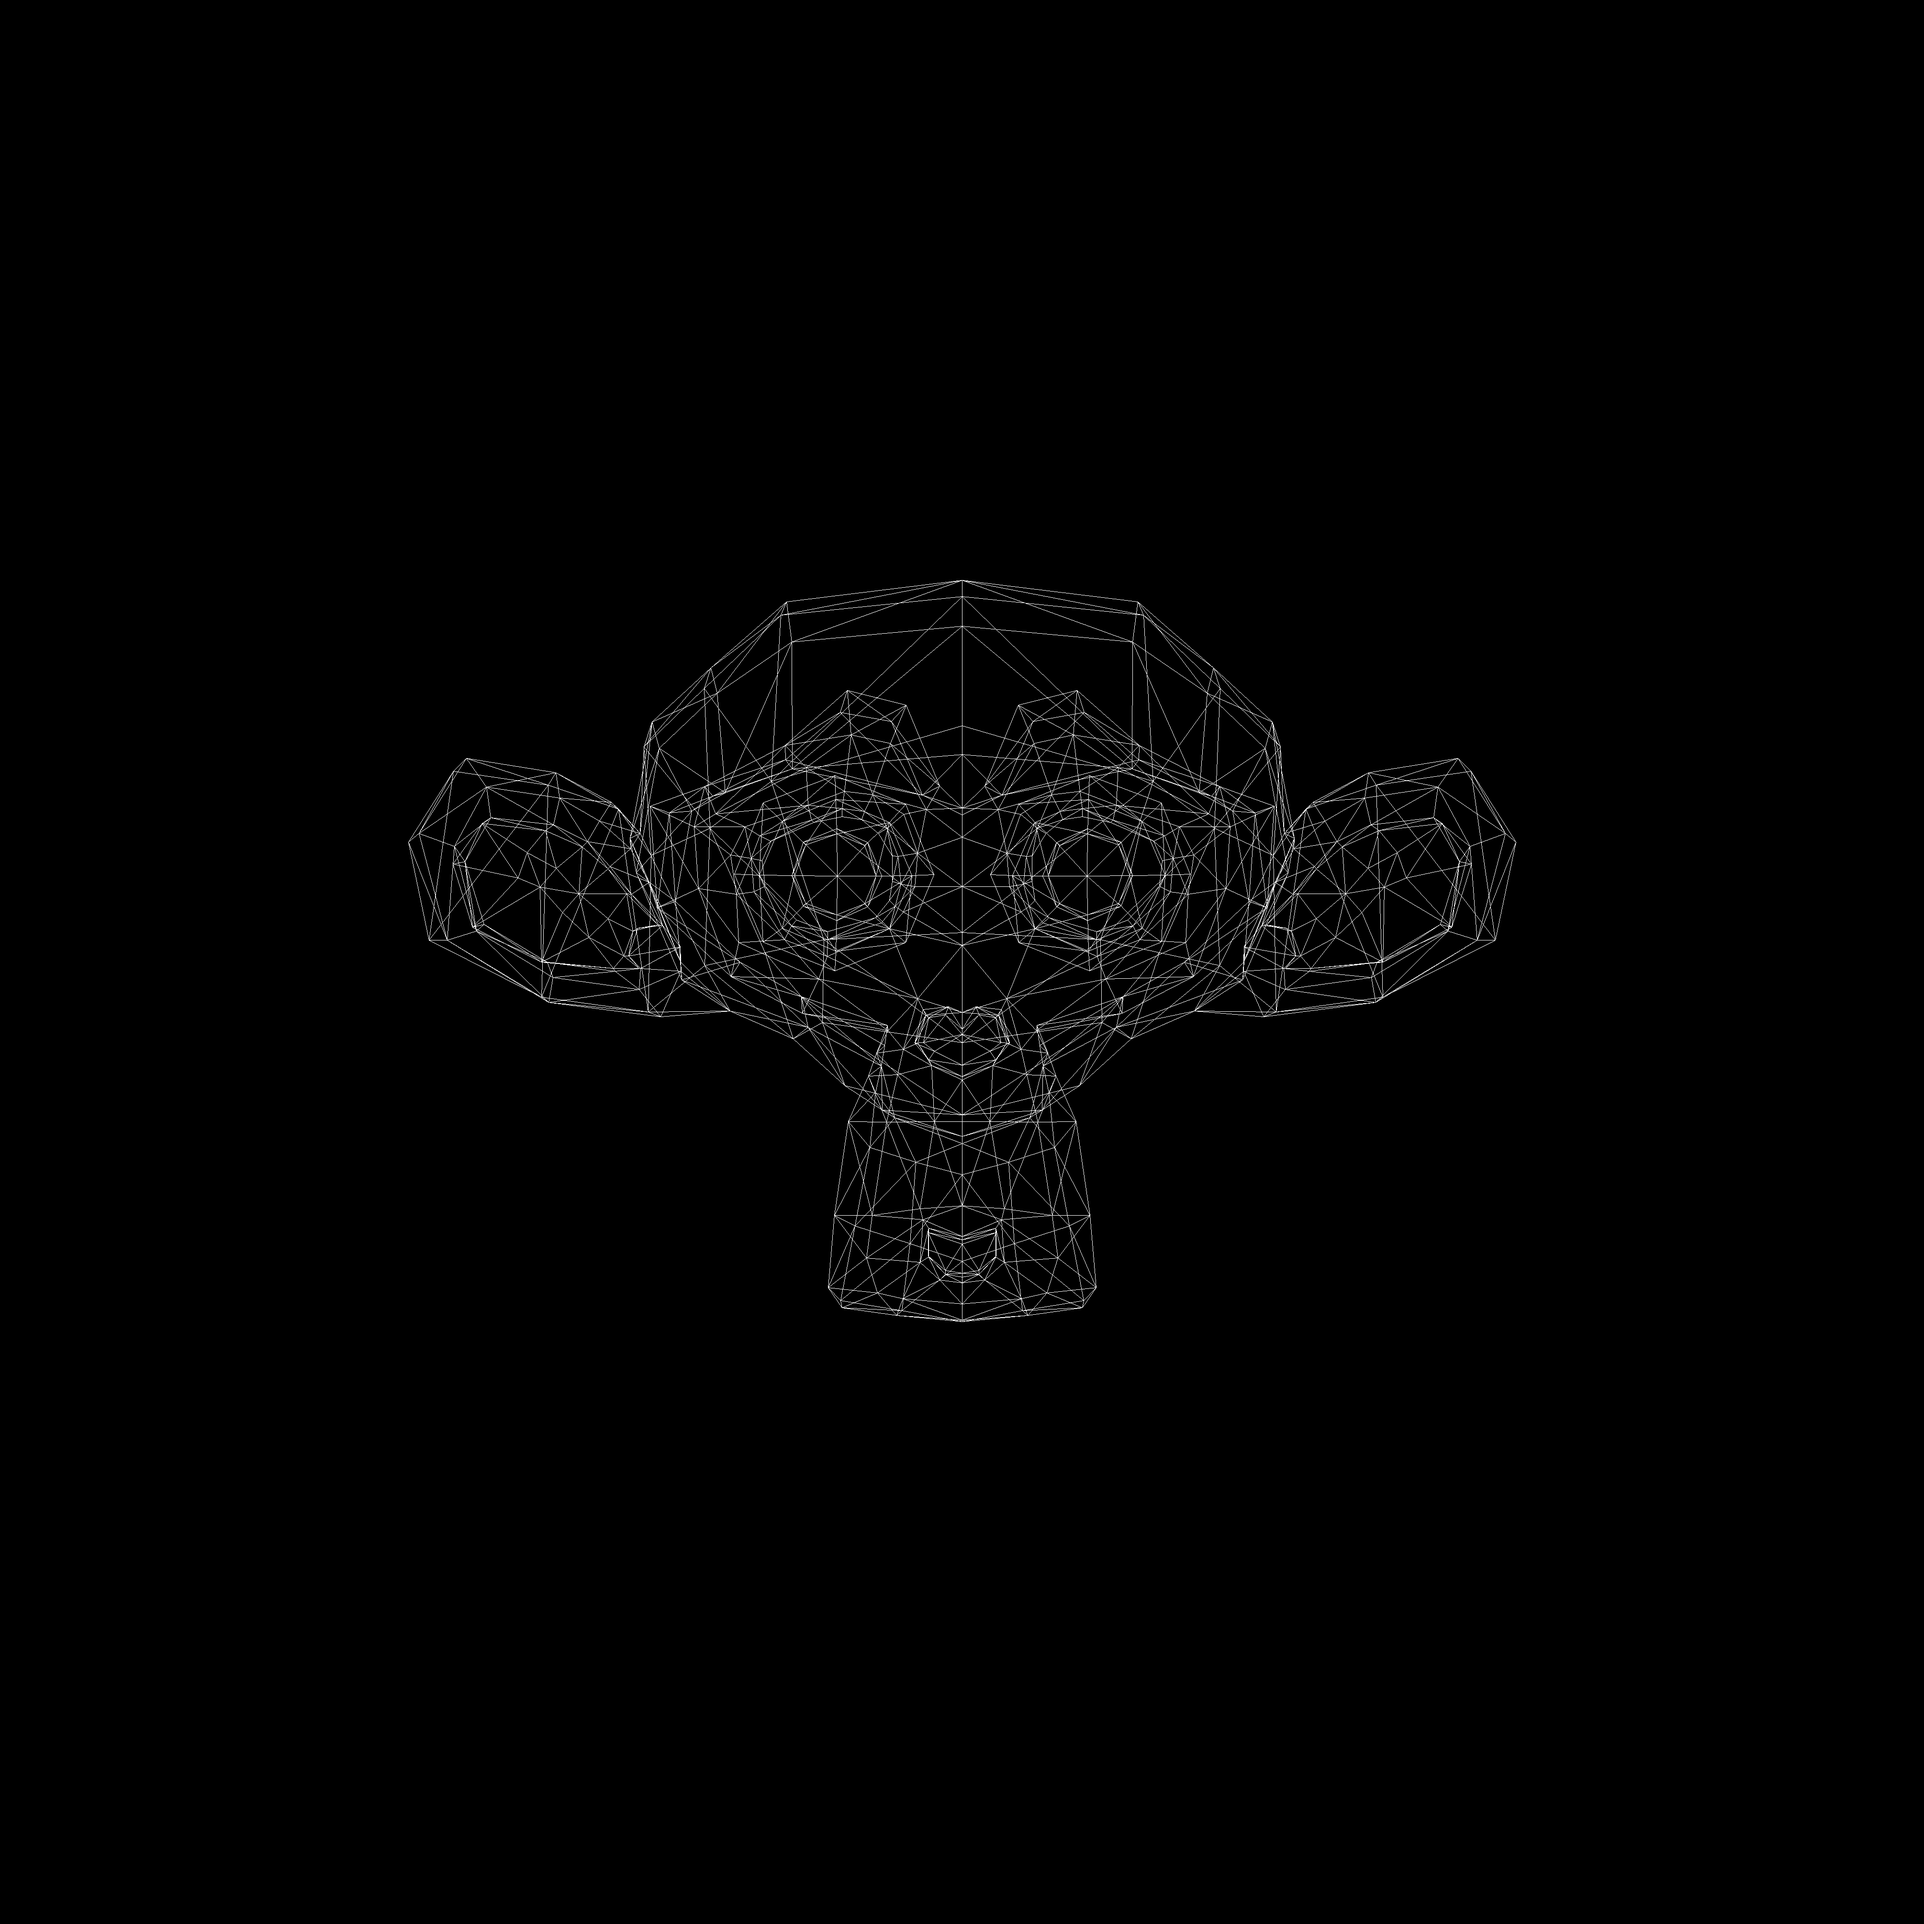
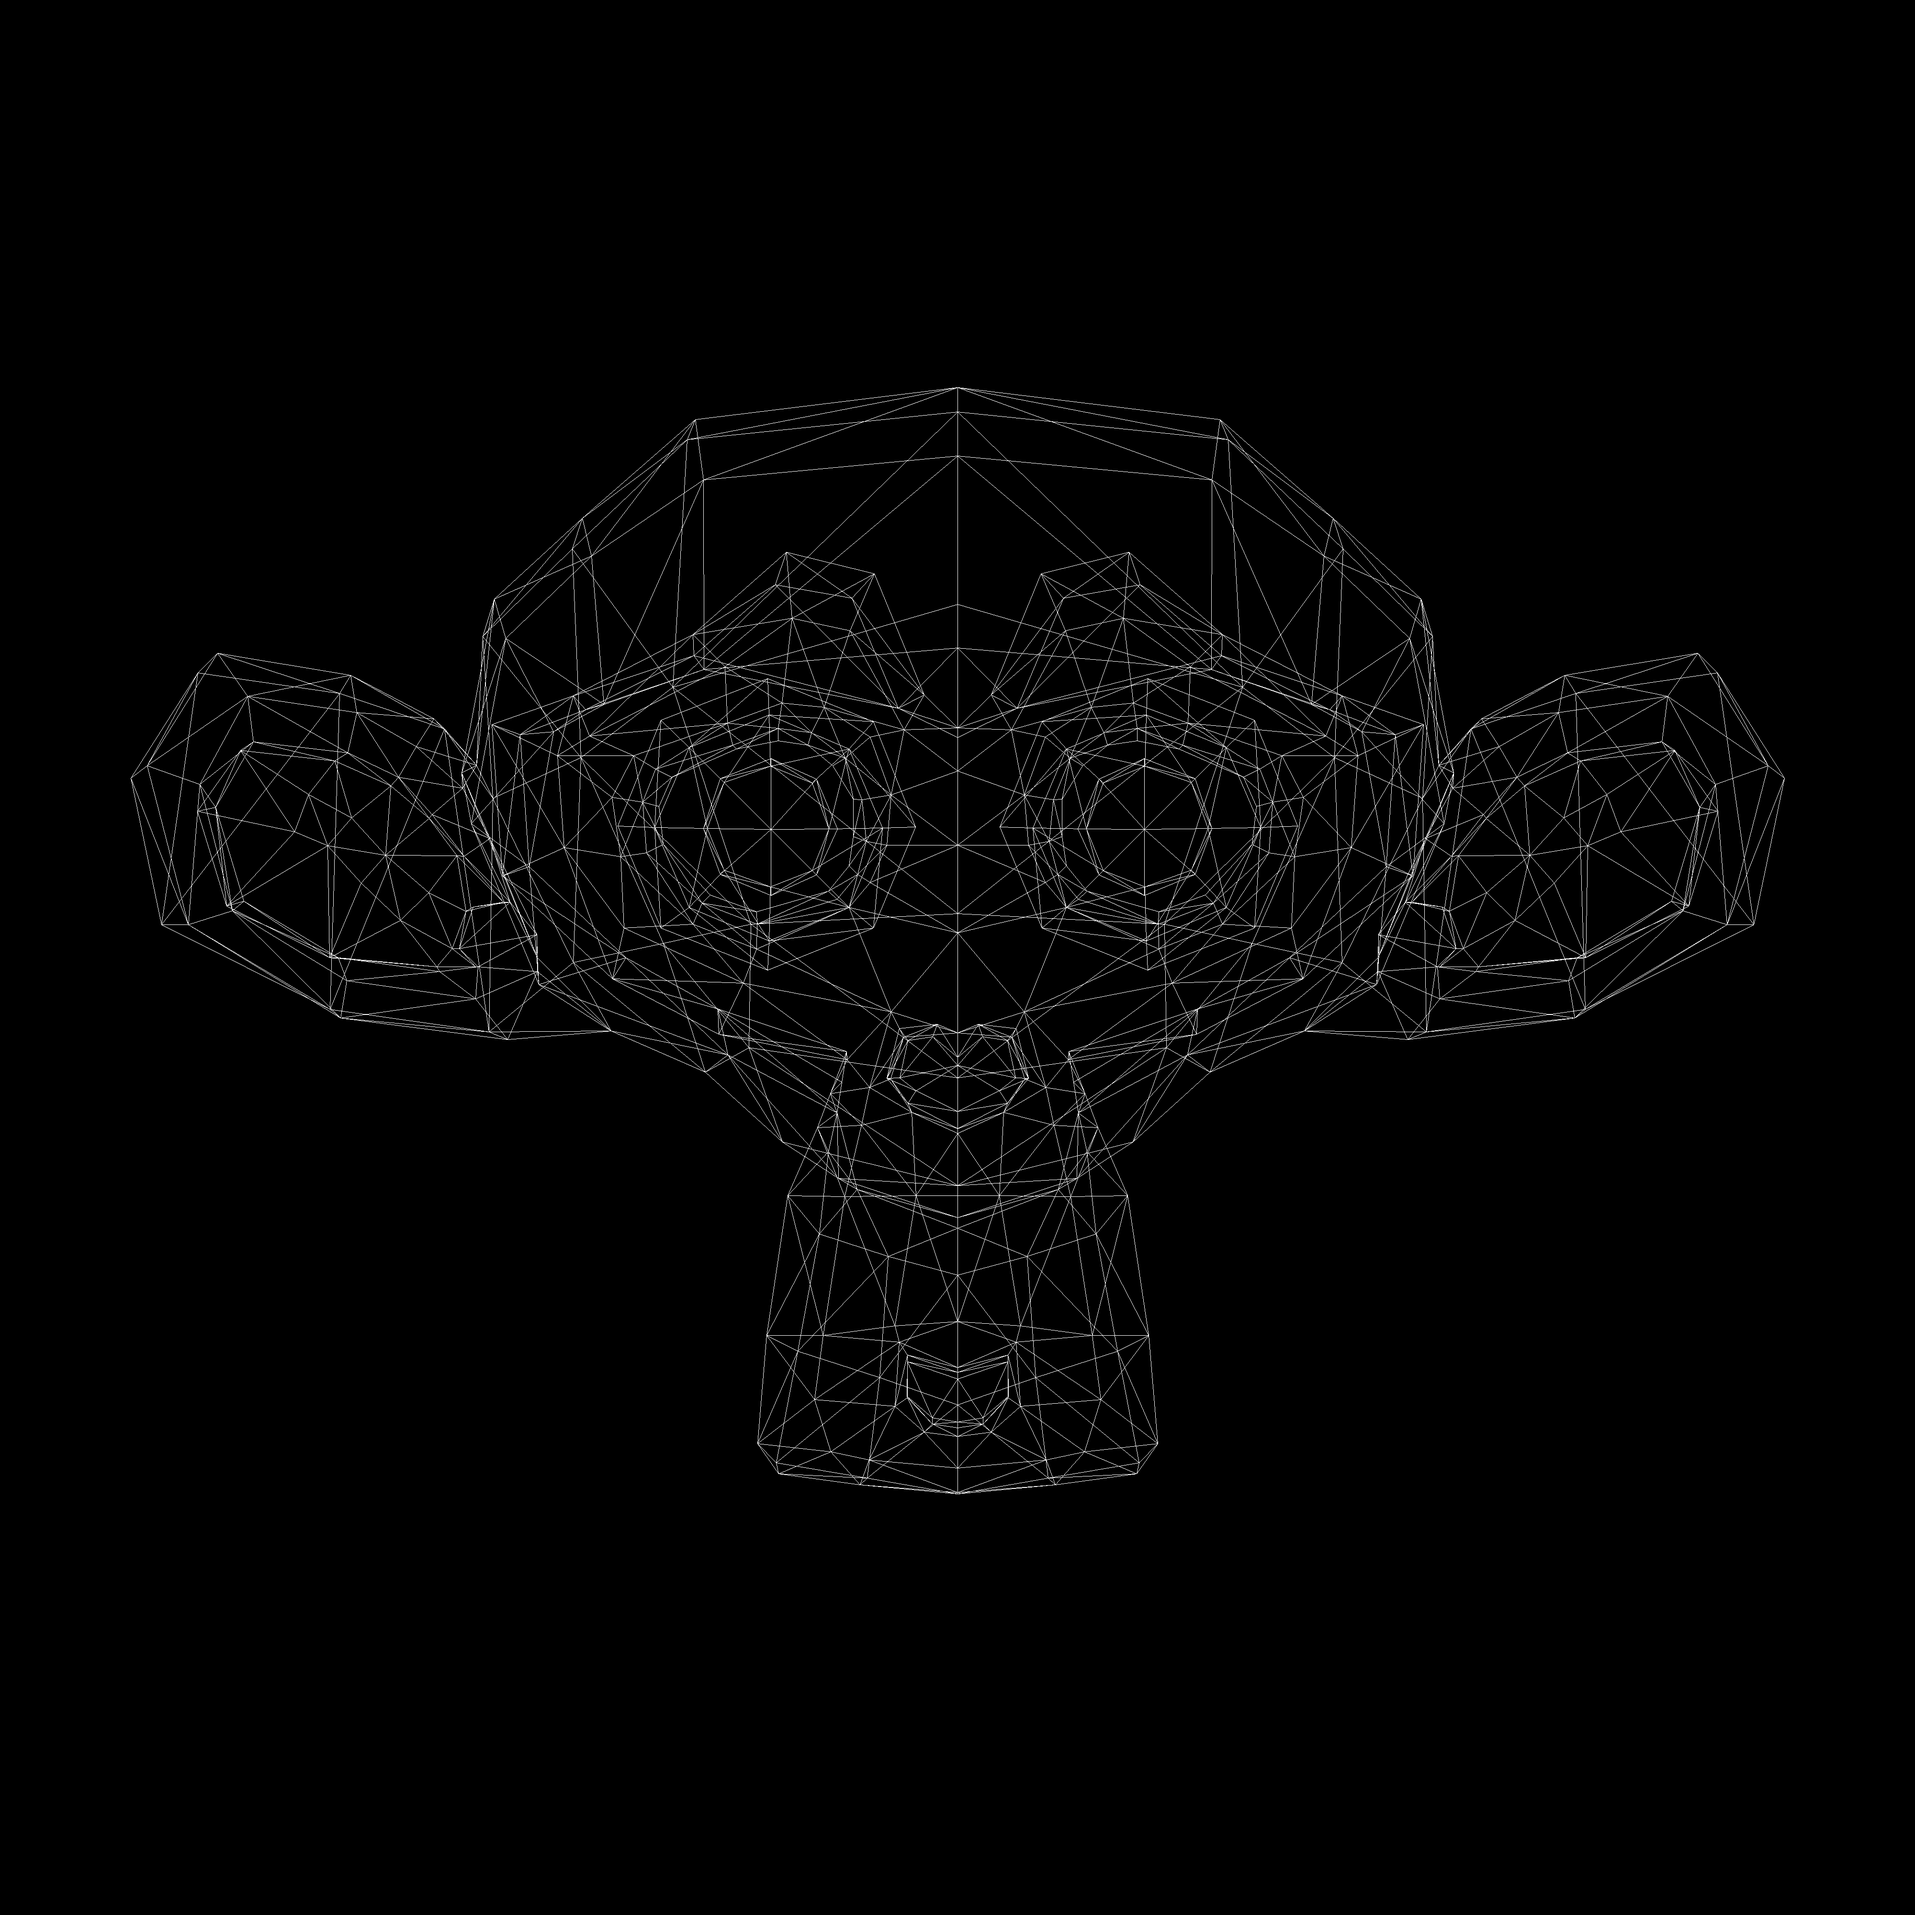
chore: update

Changed region(s): [[0.2188, 0.3125, 0.7812, 0.6875]]

diff --git a/render/core.py b/render/core.py
@@ -377,7 +377,7 @@ def render(model, height, width, filename):
     """
     model_matrix = Mat4d([[1, 0, 0, 0], [0, 1, 0, 0], [0, 0, 1, 0], [0, 0, 0, 1]])
     view_matrix = look_at(Vec3d(0, 0, 10), Vec3d(0, 0, 0))
-    projection_matrix = perspective_project(0.5, 0.5, 2, 1000)
+    projection_matrix = perspective_project(0.5, 0.5, 3, 1000)
     mvp_matrix = projection_matrix * view_matrix * model_matrix
 
     vecs, indices = model.vecs, model.indices

diff --git a/readme.md b/readme.md
@@ -1,3 +1,18 @@
 # render-py
 
-software rasterizer written in Python.
+Software rasterizer written in Python.
+
+```python
+from render import render, Model
+
+# you can export the *.obj format model data from blender
+render(Model("res/monkey.obj"), height=4000, width=4000, filename="monkey.png")
+```
+
+Then open `monkey.png`!
+
+
+<img src="./monkey.png" alt="monkey" width="320" height="320">
+
+
+ ✨🍰✨
